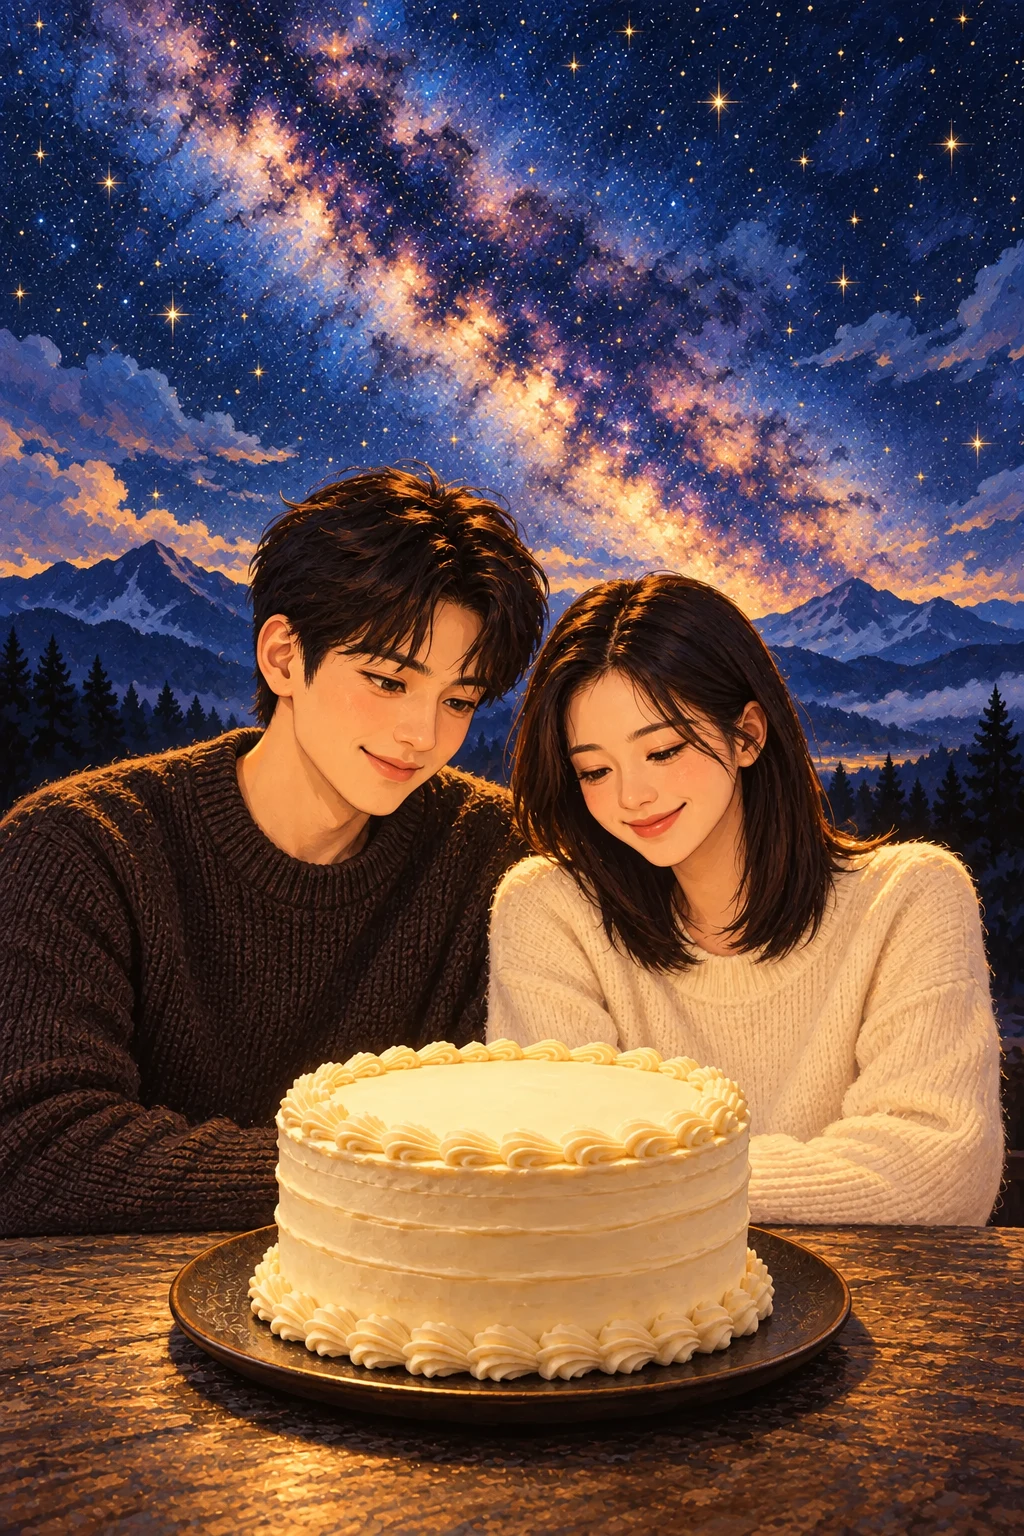
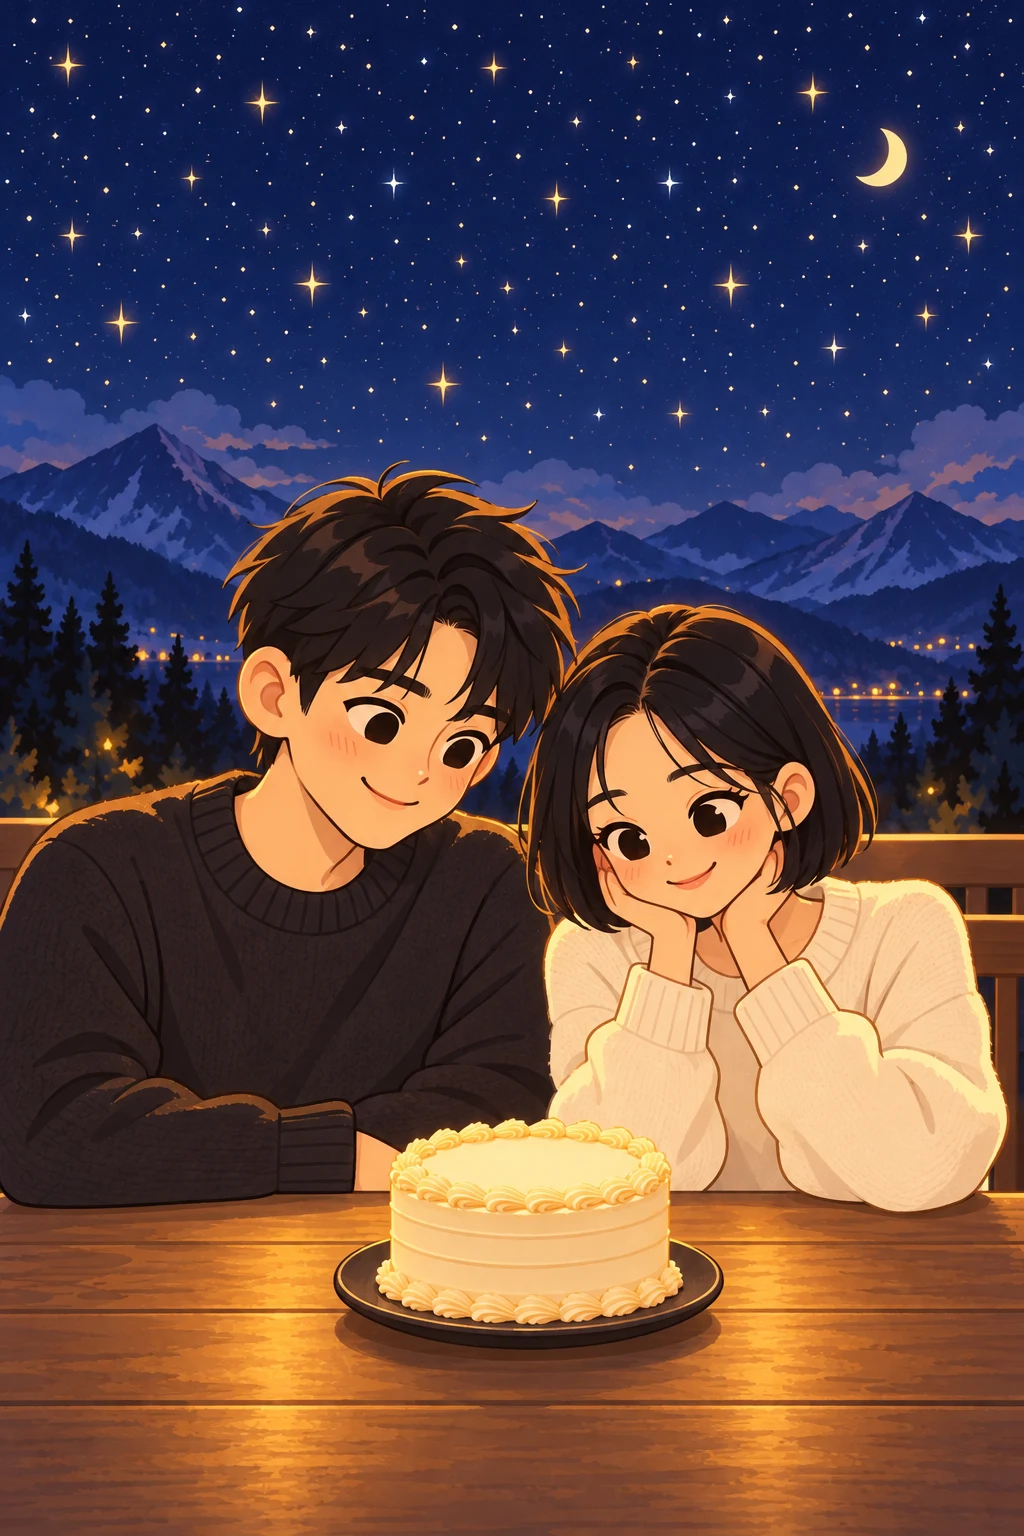
Refresh birthday scene with cartoon couple and fullscreen fireworks

diff --git a/src/birthday.js b/src/birthday.js
@@ -20,9 +20,8 @@
     dialog.querySelector('.birthday-skip').hidden = true;
   }
   function startIntro() {
-    stop(); settleBlow(); setCandle(false);
+    stop(); settleBlow(); setCandle(true);
     dialog.querySelector('.birthday-letter').hidden = true;
-    dialog.querySelector('.birthday-primary').setAttribute('aria-expanded', 'false');
     dialog.querySelector('.birthday-scroll').scrollTop = 0;
     if (motion.matches || document.hidden || !dialog.open) return;
     const canvas = dialog.querySelector('canvas'), ctx = canvas.getContext('2d');
@@ -35,8 +34,20 @@
     // A world-space camera follows the rocket; near and far stars move at different speeds.
     const stars = Array.from({length:220}, () => ({x:Math.random()*w,y:(Math.random()*5-3)*h,
       depth:.3+Math.random()*.7,size:.4+Math.random()*1.1,phase:Math.random()*6}));
-    const sparks = Array.from({length:200}, (_,i) => ({angle:i/200*Math.PI*2,
-      speed:55+Math.random()*160,life:1.5+Math.random()*1.5,color:['#ffd68c','#f4b6d0','#c4b9ff','#a8ddf0'][i%4]}));
+    const palette=['#ffd477','#ff81c5','#94dfff','#b7a1ff','#ffbd70','#9ef2cf','#ffe8a6'];
+    // Each shell expands to a screen-sized peony, with long luminous falling trails.
+    const shells=palette.map((color,index)=>({color,at:4.35+index*.53,
+      x:[.34,.78,.18,.64,.38,.84,.5][index]*w,
+      y:[.26,.43,.61,.18,.74,.68,.46][index]*h,
+      radius:Math.max(w,h)*(.55+(index%3)*.09),
+      sparks:Array.from({length:130},(_,i)=>({angle:i/130*Math.PI*2+Math.random()*.025,
+        reach:.6+Math.random()*.4,life:2.8+Math.random()*.8,phase:Math.random()*6}))}));
+    const glows=palette.map(color=>{
+      const sprite=document.createElement('canvas');sprite.width=32;sprite.height=32;
+      const g=sprite.getContext('2d'),light=g.createRadialGradient(16,16,0,16,16,16);
+      light.addColorStop(0,'#fffbe9');light.addColorStop(.14,color);light.addColorStop(1,color+'00');
+      g.fillStyle=light;g.fillRect(0,0,32,32);return sprite;
+    });
     const trail = [], started = performance.now();
     const smooth = x => { x=Math.max(0,Math.min(1,x)); return x*x*(3-2*x); };
     function render(now) {
@@ -45,17 +56,17 @@
       const zoom=1-.15*smooth((t-4.3)/1.1);
       ctx.clearRect(0,0,w,h);
       // Fade the camera shot into the illustrated couple after the firework bloom.
-      ctx.globalAlpha=1-smooth((t-6.1)/1.7);
+      ctx.globalAlpha=1-smooth((t-8.6)/1.9);
       ctx.save();
       const sky=ctx.createLinearGradient(0,0,w,h);
       sky.addColorStop(0,'#090f2e');sky.addColorStop(.55,'#20234b');sky.addColorStop(1,'#584069');
       ctx.fillStyle=sky;ctx.fillRect(0,0,w,h);
       const paintedSky=dialog.querySelector('.birthday-photo');
       if(paintedSky.complete&&paintedSky.naturalWidth){
-        ctx.globalAlpha=(1-smooth((t-6.1)/1.7))*.42;
+        ctx.globalAlpha=(1-smooth((t-8.6)/1.9))*.42;
         const skyHeight=h*1.3, skyWidth=skyHeight*1024/440;
         ctx.drawImage(paintedSky,0,0,1024,440,(w-skyWidth)/2,-h*.22-camera*.08,skyWidth,skyHeight);
-        ctx.globalAlpha=1-smooth((t-6.1)/1.7);
+        ctx.globalAlpha=1-smooth((t-8.6)/1.9);
       }
       ctx.translate(w/2,h*.35);ctx.scale(zoom,zoom);ctx.translate(-w/2,-h*.35);
       for(const star of stars){
@@ -96,22 +107,31 @@
         ctx.fillStyle=glow;ctx.fillRect(rocket.x-24,y-24,48,48);
         ctx.fillStyle='#fff7df';ctx.beginPath();ctx.arc(rocket.x,y,2.8,0,Math.PI*2);ctx.fill();
       }
-      // Secondary blooms stagger around the tracked rocket's final position.
-      for(let burst=0;burst<3;burst++){
-        const age=t-4.35-burst*.48;
+      // Large, overlapping shells fill all quadrants without full-screen flashes.
+      ctx.globalCompositeOperation='lighter';
+      for(let b=0;b<shells.length;b++){
+        const shell=shells[b],age=t-shell.at;
         if(age<0)continue;
-        const bx=w*(burst===0?.34:burst===1?.78:.15),by=-h*1.3-camera+burst*h*.11;
-        for(const p of sparks){
+        for(const p of shell.sparks){
           if(age>p.life)continue;
-          const vx=Math.cos(p.angle)*p.speed,vy=Math.sin(p.angle)*p.speed;
-          const scale=Math.min(w/390,1.5),a=age*scale;
-          const x=bx+vx*a,y=by+vy*a+30*age*age;
-          ctx.globalAlpha=(1-smooth((t-6.1)/1.7))*Math.max(0,1-age/p.life);
-          ctx.globalCompositeOperation='lighter';ctx.strokeStyle=p.color;ctx.lineWidth=1.8;ctx.beginPath();ctx.moveTo(x-vx*.035,y-vy*.035);ctx.lineTo(x,y);ctx.stroke();
+          const point=at=>{
+            const radius=shell.radius*(1-Math.exp(-at*1.25))*p.reach;
+            return {x:shell.x+Math.cos(p.angle)*radius,
+              y:shell.y+Math.sin(p.angle)*radius+20*at*at};
+          };
+          const head=point(age),alpha=(1-smooth((t-8.6)/1.9))*Math.min(1,age*8)*Math.max(0,1-age/p.life);
+          ctx.strokeStyle=shell.color;
+          for(let tail=3;tail>0;tail--){
+            const from=point(Math.max(0,age-tail*.075)),to=point(Math.max(0,age-(tail-1)*.075));
+            ctx.globalAlpha=alpha*(1-tail*.19);ctx.lineWidth=tail===1?2:1.2;
+            ctx.beginPath();ctx.moveTo(from.x,from.y);ctx.lineTo(to.x,to.y);ctx.stroke();
+          }
+          ctx.globalAlpha=alpha*(.75+.25*Math.sin(t*8+p.phase)**2);
+          ctx.drawImage(glows[b],head.x-7,head.y-7,14,14);
         }
       }
       ctx.restore();ctx.globalAlpha=1;
-      if(t<7.8&&dialog.open&&!document.hidden)frame=requestAnimationFrame(render);
+      if(t<10.5&&dialog.open&&!document.hidden)frame=requestAnimationFrame(render);
       else stop();
     }
     frame=requestAnimationFrame(render);
@@ -119,6 +139,7 @@
 
   function setCandle(out) {
     dialog.classList.toggle('candles-out', out);
+    if (!out) dialog.classList.remove('candles-blown');
     dialog.querySelector('.birthday-candle-button').setAttribute('aria-pressed', String(out));
     dialog.querySelector('.birthday-candle-button').setAttribute('aria-label', out ? '촛불 켜기' : '촛불 끄기');
     dialog.querySelector('.birthday-blow').textContent = out ? '촛불 켜기' : '촛불 끄기';
@@ -131,7 +152,7 @@
     for (const selector of ['.birthday-candle-button', '.birthday-blow']) dialog.querySelector(selector).disabled = false;
   }
   function settleBlow() {
-    if (blowing) setCandle(true);
+    if (blowing) { dialog.classList.add('candles-blown'); setCandle(true); }
     clearBlow();
   }
   async function toggleCandle() {
@@ -153,7 +174,7 @@
       if (run === blowRun && dialog.open) action();
     }, ms));
     later(650, () => dialog.classList.add('blow-wind'));
-    later(1350, () => setCandle(true));
+    later(1350, () => { dialog.classList.add('candles-blown'); setCandle(true); });
     later(2600, () => { clearBlow(); openLetter(); });
   }
 
@@ -162,7 +183,6 @@
     if (!dialog.open) return;
     const letter = dialog.querySelector('.birthday-letter');
     letter.hidden = false;
-    dialog.querySelector('.birthday-primary').setAttribute('aria-expanded', 'true');
     letter.focus({preventScroll:true});
     letter.scrollIntoView({behavior:motion.matches?'auto':'smooth', block:'start'});
   }
@@ -177,20 +197,16 @@
       <div class="birthday-scroll"><section class="birthday-hero">
         <div class="birthday-stage">
           <div class="birthday-scene">
-            <img class="birthday-photo" src="birthday-night.webp?v=20261020-6" width="1024" height="1536" alt="은하수 아래 남녀가 함께 케이크를 바라보는 모습" decoding="async">
-            <img class="birthday-pose" src="birthday-blow.webp?v=20261020-6" width="1024" height="1536" alt="" aria-hidden="true" decoding="async">
-            <svg class="birthday-breath" viewBox="0 0 1024 1536" aria-hidden="true"><path d="M609 892 Q574 930 508 979"/><path d="M617 900 Q585 940 516 990"/><path d="M605 888 Q563 916 503 971"/></svg>
+            <img class="birthday-photo" src="birthday-night.webp?v=20261020-8" width="1024" height="1536" alt="별이 많은 밤하늘 아래 단발 여성과 남성이 작은 케이크를 바라보는 그림" decoding="async">
+            <img class="birthday-pose" src="birthday-blow.webp?v=20261020-8" width="1024" height="1536" alt="" aria-hidden="true" decoding="async">
+            <svg class="birthday-breath" viewBox="0 0 1024 1536" aria-hidden="true"><path d="M610 970 Q570 1020 530 1080"/><path d="M618 978 Q580 1030 538 1090"/><path d="M605 965 Q560 1010 523 1075"/></svg>
             <div class="birthday-candle-glow" aria-hidden="true"></div>
-            <button class="birthday-candle-button" type="button" aria-label="촛불 끄기" aria-pressed="false">
-              <span class="birthday-wax" aria-hidden="true"></span><span class="birthday-wick" aria-hidden="true"></span>
-              <span class="birthday-flame" aria-hidden="true"></span><span class="birthday-smoke" aria-hidden="true"></span>
+            <button class="birthday-candle-button" type="button" aria-label="촛불 켜기" aria-pressed="true">
+              ${[...'2026'].map(n=>`<span class="birthday-number" aria-hidden="true"><span class="birthday-digit">${n}</span><span class="birthday-wick"></span><span class="birthday-flame"></span><span class="birthday-smoke"></span></span>`).join('')}
             </button>
+            <p class="birthday-caption">22번째 생일 축하해</p>
           </div>
-        </div>
-        <div class="birthday-actions">
-          <button class="birthday-blow" type="button">촛불 끄기</button>
-          <button class="birthday-primary" type="button" aria-expanded="false" aria-controls="birthday-letter"><svg aria-hidden="true" viewBox="0 0 24 24" fill="none" stroke="currentColor" stroke-width="1.4"><rect x="3" y="5" width="18" height="14" rx="2"/><path d="m3 6 9 7 9-7"/></svg>편지</button>
-          <button class="birthday-replay" type="button" aria-label="애니메이션 다시 보기"><svg aria-hidden="true" viewBox="0 0 24 24" fill="none" stroke="currentColor" stroke-width="1.5"><path d="M4 10a8 8 0 1 1 1 8M4 4v6h6"/></svg></button>
+          <button class="birthday-blow" type="button">촛불 켜기</button>
         </div>
       </section>
       <article class="birthday-letter" id="birthday-letter" hidden aria-label="편지" tabindex="-1">
@@ -205,11 +221,9 @@
     dialog.addEventListener('close', () => { clearBlow(); stop(); if (opener?.isConnected) opener.focus(); });
     dialog.querySelector('.birthday-candle-button').addEventListener('click', toggleCandle);
     dialog.querySelector('.birthday-blow').addEventListener('click', toggleCandle);
-    dialog.querySelector('.birthday-replay').addEventListener('click', startIntro);
     dialog.querySelector('.birthday-skip').addEventListener('click', () => {
       stop(); dialog.querySelector('.birthday-candle-button').focus({preventScroll:true});
     });
-    dialog.querySelector('.birthday-primary').addEventListener('click', openLetter);
     document.addEventListener('visibilitychange', () => { if (document.hidden) { const pending=blowing; settleBlow(); stop(); if(pending) openLetter(); } });
     motion.addEventListener('change', () => { const pending=blowing; settleBlow(); stop(); if(pending) openLetter(); });
     window.addEventListener('resize', stop);
@@ -219,9 +233,8 @@
       if (!dialog) create();
       if (dialog.open) return;
       opener = document.activeElement;
-      clearBlow(); setCandle(false);
+      clearBlow(); setCandle(true); dialog.classList.remove('candles-blown');
       dialog.querySelector('.birthday-letter').hidden = true;
-      dialog.querySelector('.birthday-primary').setAttribute('aria-expanded', 'false');
       dialog.showModal();
       dialog.querySelector('.birthday-scroll').scrollTop = 0;
       startIntro();

diff --git a/src/birthday.css b/src/birthday.css
@@ -9,30 +9,33 @@
 .birthday-dialog button{touch-action:manipulation}.birthday-dialog button:focus-visible{outline:3px solid #ffcf8c;outline-offset:5px}
 .birthday-confetti{position:absolute;inset:0;width:100%;height:100%;pointer-events:none;z-index:2}
 .birthday-hero{width:calc(100% + 44px);margin:0 -22px;position:relative;min-height:100vh;min-height:100dvh;display:flex;flex-direction:column;justify-content:center;background:#070b10}
-.birthday-stage{position:relative;overflow:hidden;width:100%;height:calc(100vh - 110px - env(safe-area-inset-bottom));height:calc(100dvh - 110px - env(safe-area-inset-bottom));min-height:420px}
-.birthday-scene{position:absolute;left:50%;top:50%;transform:translate(-50%,-50%);width:max(100%,calc((100vh - 110px - env(safe-area-inset-bottom))*2/3));width:max(100%,calc((100dvh - 110px - env(safe-area-inset-bottom))*2/3));min-width:280px;aspect-ratio:2/3}
+.birthday-stage{position:relative;overflow:hidden;width:100%;height:100vh;height:100dvh;min-height:420px}
+.birthday-scene{position:absolute;left:50%;top:50%;transform:translate(-50%,-50%);width:max(100%,calc(100vh*2/3));width:max(100%,calc(100dvh*2/3));min-width:280px;aspect-ratio:2/3}
 .birthday-photo{display:block;width:100%;height:auto}
-.birthday-candle-button{position:absolute;left:50%;top:71.5%;transform:translate(-50%,-100%);width:64px;height:13%;min-height:80px;padding:0;border:0;background:transparent;cursor:pointer;z-index:3;-webkit-tap-highlight-color:transparent}
-.birthday-wax{position:absolute;bottom:0;left:calc(50% - 3px);width:6px;height:48%;border-radius:2px 2px 1px 1px;background:linear-gradient(90deg,#927e5c,#f6e6bb 35%,#ddc99f 70%,#9e8661);box-shadow:2px 1px 3px #0005}
-.birthday-wick{position:absolute;left:calc(50% - .5px);bottom:48%;height:5%;width:1px;background:#322c27}
-.birthday-flame{position:absolute;left:calc(50% - 4px);bottom:51%;width:8px;height:22%;border-radius:60% 40% 45% 45%;background:radial-gradient(ellipse at 50% 88%,#7187d8 0,transparent 25%),linear-gradient(#ffb958,#fffbe3 50%,#fff0ab 80%,#d38028);box-shadow:0 0 7px #ffdb9b,0 0 21px #ffa94d99;transform-origin:50% 100%;animation:birthday-flame 1.8s ease-in-out infinite alternate;transition:opacity .25s,filter .25s}
-.birthday-candle-glow{position:absolute;left:50%;top:68%;width:32%;aspect-ratio:1;transform:translate(-50%,-50%);pointer-events:none;background:radial-gradient(ellipse,#ffce7617,transparent 68%);transition:opacity .6s}
-.birthday-smoke{position:absolute;left:calc(50% - 5px);bottom:52%;width:10px;height:45%;border-left:2px solid #c5cbd588;border-radius:50%;filter:blur(2px);opacity:0;pointer-events:none}
+.birthday-scene{container-type:inline-size}
+.birthday-candle-button{position:absolute;left:51.8%;top:76%;transform:translate(-50%,-100%);width:25%;height:10%;min-height:65px;display:flex;align-items:flex-end;justify-content:center;padding:0;border:0;background:transparent;cursor:pointer;z-index:3;-webkit-tap-highlight-color:transparent}
+.birthday-number{position:relative;display:block;width:25%;height:48%;color:#f9c0cc}
+.birthday-number:nth-child(2){color:#b8dbef}.birthday-number:nth-child(3){color:#ffe09c}.birthday-number:nth-child(4){color:#c6b3ed}
+.birthday-digit{display:block;font:bold 32px/1 Georgia,serif;font-size:clamp(24px,6cqi,42px);-webkit-text-stroke:1px #fff6df;text-shadow:1px 2px 0 #a35c6380,0 2px 3px #4f343580}
+.birthday-wick{position:absolute;left:50%;bottom:100%;height:8%;width:1px;background:#44362a}
+.birthday-flame{position:absolute;left:calc(50% - 4px);bottom:106%;width:8px;height:40%;border-radius:60% 40% 45% 45%;background:linear-gradient(#ffa943,#fffbe0 60%,#ffc163);box-shadow:0 0 7px #ffdb9b,0 0 18px #ffa94d80;transform-origin:50% 100%;animation:birthday-flame 1.8s ease-in-out infinite alternate;transition:opacity .25s}
+.birthday-number:nth-child(even) .birthday-flame{animation-delay:-.6s}
+.birthday-smoke{position:absolute;left:calc(50% - 5px);bottom:105%;width:10px;height:85%;border-left:2px solid #d5d9e288;border-radius:50%;filter:blur(2px);opacity:0;pointer-events:none}
+.birthday-caption{position:absolute;top:82.5%;left:0;width:100%;margin:0;text-align:center;font-size:clamp(13px,3.3cqi,18px);font-weight:600;color:#63402c;text-shadow:0 1px 2px #fff0c9;letter-spacing:.5px}
+.birthday-candle-glow{position:absolute;left:51.8%;top:73%;width:32%;aspect-ratio:1;transform:translate(-50%,-50%);pointer-events:none;background:radial-gradient(ellipse,#ffce7617,transparent 68%);transition:opacity .6s}
 .candles-out .birthday-flame,.candles-out .birthday-candle-glow{opacity:0;animation:none}
-.candles-out .birthday-smoke{animation:birthday-smoke 2.8s ease-out both}
+.candles-blown .birthday-smoke{animation:birthday-smoke 2.8s ease-out both}
 @keyframes birthday-smoke{0%{opacity:0;transform:translate(0,0) scale(.3)}15%{opacity:.65}60%{opacity:.3;transform:translate(8px,-22px) scale(1.4)}100%{opacity:0;transform:translate(-4px,-55px) scale(2)}}
-.birthday-actions{display:flex;align-items:center;justify-content:center;gap:10px;position:relative;z-index:3;margin:16px auto;padding-bottom:env(safe-area-inset-bottom)}
-.birthday-primary,.birthday-replay,.birthday-blow{min-height:48px;border:1px solid #ffffff35;border-radius:28px;background:#ffffff0c;color:#f8e8f8;display:flex;align-items:center;justify-content:center;gap:10px;cursor:pointer;font:500 14px 'Apple SD Gothic Neo',sans-serif;padding:12px 18px}
-.birthday-primary svg,.birthday-replay svg{width:22px;height:22px}.birthday-replay{width:48px;padding:12px}
+.birthday-blow{position:absolute;z-index:3;bottom:calc(22px + env(safe-area-inset-bottom));left:50%;transform:translateX(-50%);min-height:48px;padding:12px 26px;border:1px solid #ffe1a970;border-radius:28px;background:#51392590;-webkit-backdrop-filter:blur(10px);backdrop-filter:blur(10px);color:#fff4df;font:600 14px 'Apple SD Gothic Neo',sans-serif;cursor:pointer;white-space:nowrap}
 .birthday-letter{position:relative;z-index:3;max-width:480px;margin:30px auto 0;padding:32px 26px;border-radius:5px;color:#473b40;background:#fff8ee;box-shadow:0 20px 70px #0004;scroll-margin-top:calc(70px + env(safe-area-inset-top));animation:birthday-arrive .6s both;outline:none}
 .birthday-letter[hidden]{display:none}.birthday-letter p{font-family:'Apple SD Gothic Neo','Malgun Gothic',sans-serif;font-size:16px;line-height:2;word-break:keep-all;overflow-wrap:break-word;margin-bottom:24px}.birthday-letter .birthday-sign{text-align:right;margin:24px 0 0}
 @keyframes birthday-arrive{from{opacity:0;transform:translateY(22px)}to{opacity:1;transform:translateY(0)}}
 @keyframes birthday-flame{from{transform:rotate(-7deg) scale(.94)}to{transform:rotate(7deg) scale(1.05)}}
 @media(prefers-reduced-motion:reduce){.birthday-dialog *{animation:none!important;scroll-behavior:auto!important}}
 @media(max-width:360px){.birthday-scroll{padding-left:14px;padding-right:14px}.birthday-letter{padding:28px 22px}.birthday-hero{width:calc(100% + 28px);margin-left:-14px;margin-right:-14px}}
-@media(min-aspect-ratio:2/3){.birthday-stage{width:calc(max(420px,100dvh - 110px - env(safe-area-inset-bottom))*2/3);max-width:100%;margin-inline:auto}}
+@media(min-aspect-ratio:2/3){.birthday-stage{width:calc(max(420px,100dvh)*2/3);max-width:100%;margin-inline:auto}}
 
-.birthday-pose{position:absolute;inset:0;width:100%;height:auto;opacity:0;pointer-events:none;transition:opacity .65s ease-in-out;-webkit-mask-image:radial-gradient(ellipse 40% 29% at 76% 58%,#000 60%,transparent 100%);mask-image:radial-gradient(ellipse 40% 29% at 76% 58%,#000 60%,transparent 100%)}
+.birthday-pose{position:absolute;inset:0;width:100%;height:auto;opacity:0;pointer-events:none;transition:opacity .65s ease-in-out;-webkit-mask-image:radial-gradient(ellipse 43% 31% at 77% 62%,#000 72%,transparent 100%);mask-image:radial-gradient(ellipse 43% 31% at 77% 62%,#000 72%,transparent 100%)}
 .blowing .birthday-pose{opacity:1}
 .birthday-breath{position:absolute;inset:0;width:100%;height:100%;pointer-events:none;opacity:0;fill:none;stroke:#e6e9ed;stroke-width:1;stroke-linecap:round;filter:blur(.6px)}
 .blow-wind .birthday-breath{animation:birthday-breath .8s ease-out both}
@@ -46,7 +49,7 @@
 .birthday-skip svg{width:23px;height:23px}.birthday-skip[hidden]{display:none}
 .birthday-intro .birthday-confetti{z-index:4;pointer-events:auto}
 .birthday-intro .birthday-close,.birthday-intro .birthday-skip{z-index:5}
-.birthday-intro .birthday-actions{visibility:hidden}
+.birthday-intro .birthday-blow{visibility:hidden}
 .birthday-intro .birthday-scroll{overflow:hidden}
 .birthday-scene{transition:transform 1.7s ease-out}
 .birthday-intro .birthday-scene{transform:translate(-50%,-50%) scale(1.07)}

diff --git a/src/index.html b/src/index.html
@@ -11,8 +11,8 @@
 <link rel="stylesheet" href="bridge-client.css?v=20260914-layout">
 <link rel="stylesheet" href="push-client.css?v=20260914-push1">
 <link rel="stylesheet" href="school-client.css?v=20260915-calendar1">
-<link rel="stylesheet" href="birthday.css?v=20261020-7">
-<script src="birthday.js?v=20261020-6" defer></script>
+<link rel="stylesheet" href="birthday.css?v=20261020-8">
+<script src="birthday.js?v=20261020-8" defer></script>
 <title>동영 스케줄</title>
 <style>
 :root{

diff --git a/src/birthday-assets.md b/src/birthday-assets.md
@@ -1,14 +1,16 @@
 # Birthday illustrations
 
-`birthday-night.webp` and `birthday-blow.webp` are AI-generated hand-painted
-illustrations created with OpenAI image generation on 2026-10-19 (Asia/Seoul).
-They depict fictional adults looking at a cake, and the woman leaning forward
-to blow out a candle. These are original illustrated scenes, not photographs.
+The two WebP assets are original AI-generated cute cartoon illustrations made
+with OpenAI image generation on 2026-10-19 (Asia/Seoul). They depict fictional
+adults, a woman with a chin-length bob, a small cake, and a star-filled night
+sky without a Milky Way. Each 1024 × 1536 source is encoded at WebP quality 88.
 
-The 1024 × 1536 images are encoded as WebP quality 88. A masked transition
-changes the woman's pose; HTML/CSS/SVG draw the candle, breath and smoke.
-The canvas opening uses a world-space camera that follows a rising rocket,
-parallax stars/clouds/mountains and staggered firework blooms before revealing
-the couple. It lasts 7.8 seconds and can be skipped. Reduced-motion settings
-bypass the opening and blowing animation. Extinguishing opens the original
-letter automatically. Assets are local and no microphone is used.
+The app overlays four interactive number candles (2026) and the requested
+caption “22번째 생일 축하해”. A single light/blow control is placed within the
+scene. There is no separate letter/replay action bar. Lighting then blowing
+out the candles opens the original letter automatically.
+
+The 10.5-second skippable canvas opening follows a rocket before seven large
+peony/willow firework shells spread across the viewport. Each shell has 130
+sparks with bounded trails and cached glow sprites. Reduced motion skips the
+opening and blowing animation. No microphone or external asset requests.
